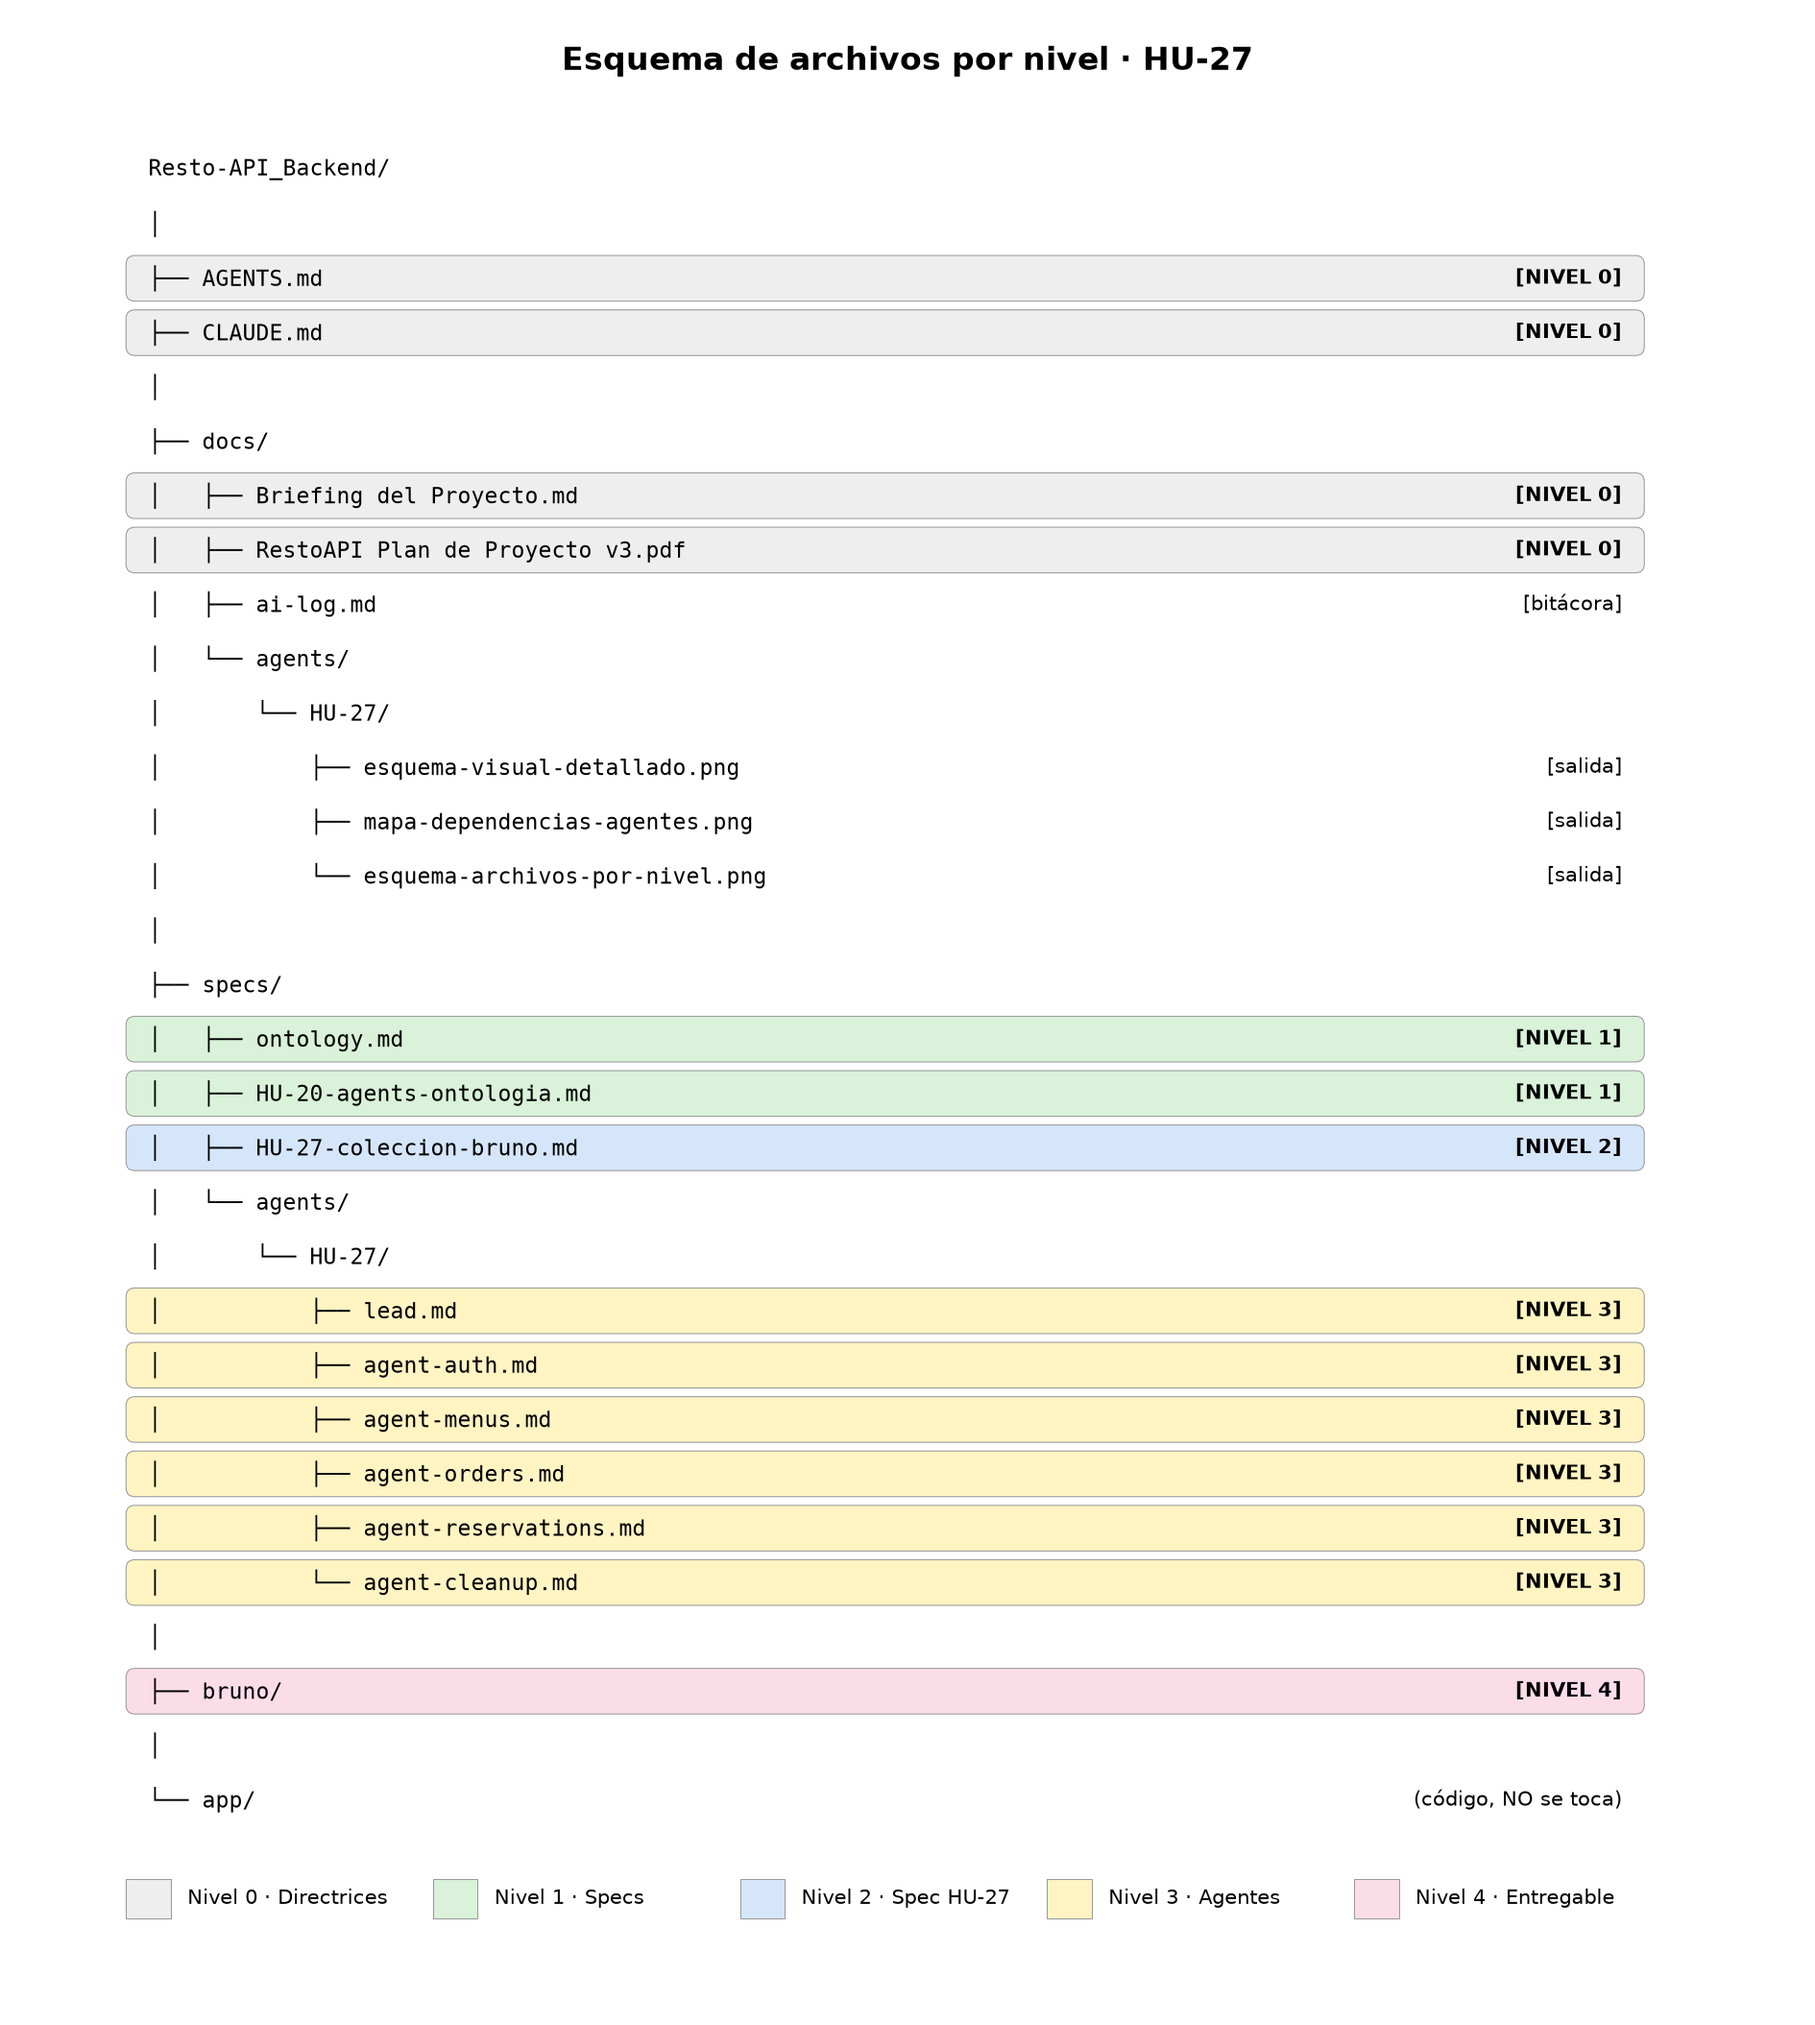
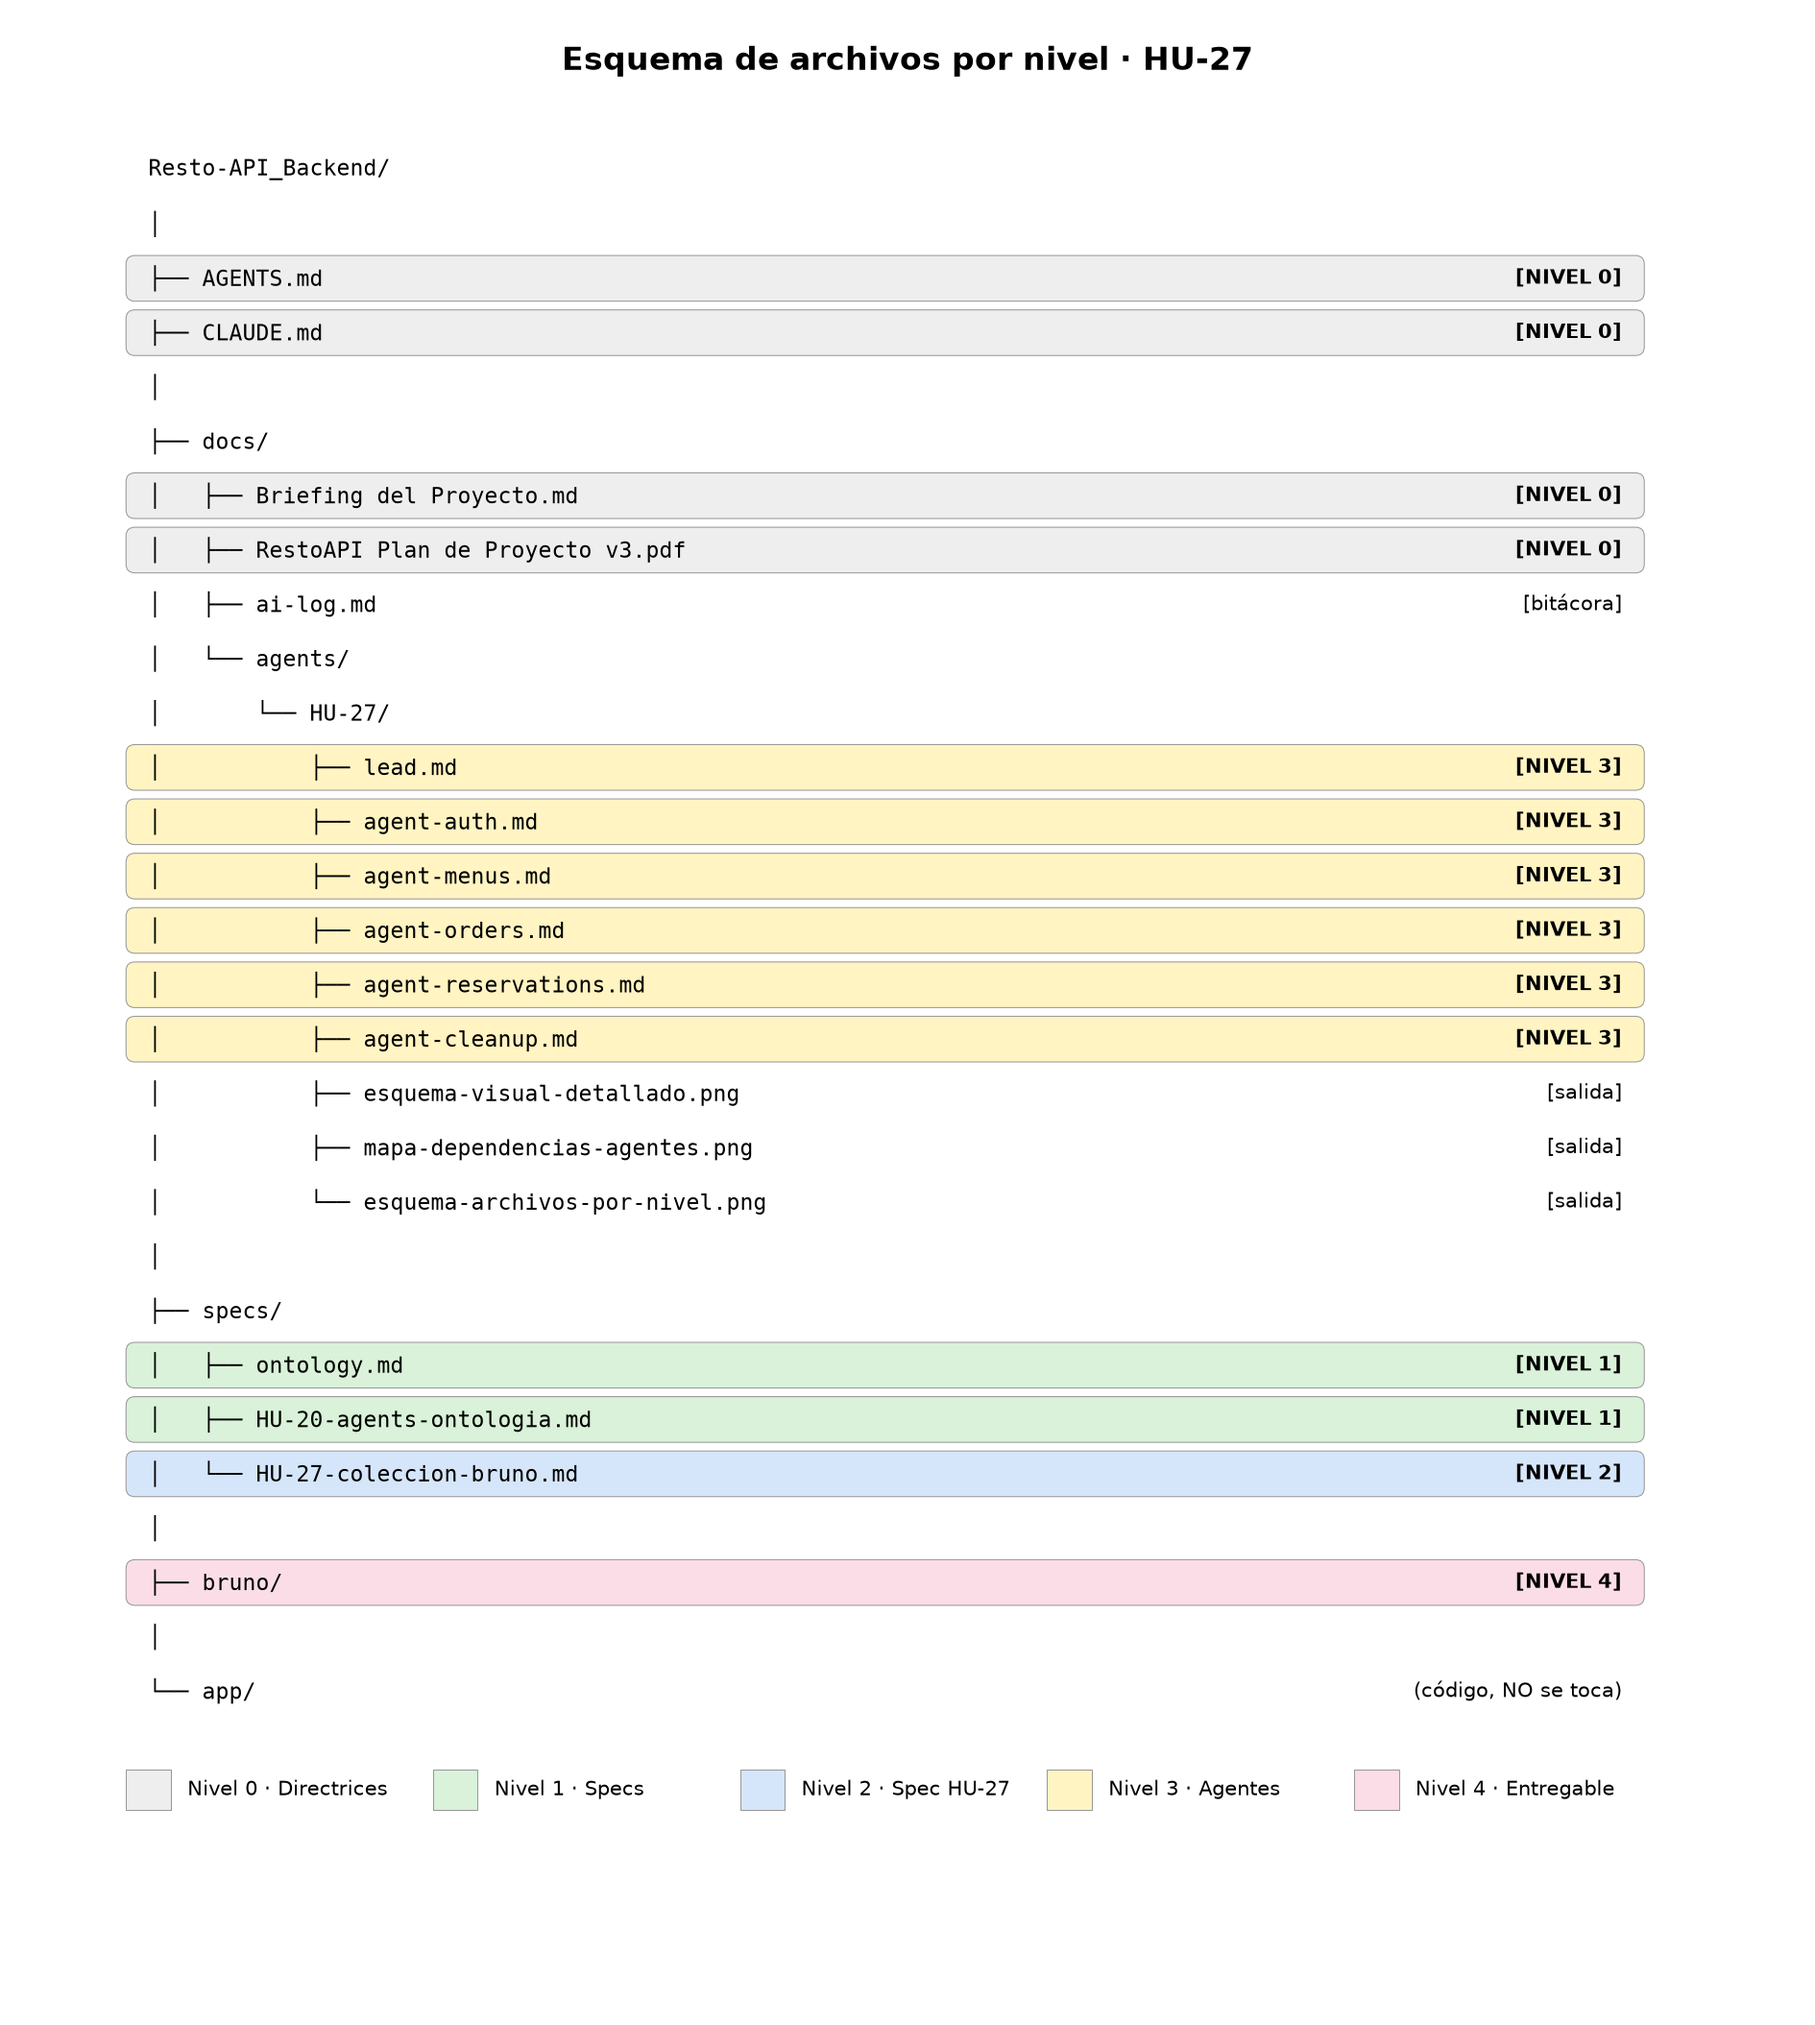
docs(agents): mover las directrices de HU-27 de specs/agents a docs/agents

diff --git a/scripts/generate_agent_diagrams.py b/scripts/generate_agent_diagrams.py
@@ -131,7 +131,7 @@ def diagram_1():
         arrow(ax, parent, spec)
 
     level(11.8, "NIVEL 3")
-    lead = box(ax, 8, 11.8, 5, 1.2, "specs/agents/HU-27/lead.md",
+    lead = box(ax, 8, 11.8, 5, 1.2, "docs/agents/HU-27/lead.md",
                "orquesta · no escribe .bru", YELLOW)
     arrow(ax, spec, lead)
 
@@ -210,6 +210,12 @@ TREE = [
     ("│   ├── ai-log.md", "bitácora"),
     ("│   └── agents/", None),
     ("│       └── HU-27/", None),
+    ("│           ├── lead.md", 3),
+    ("│           ├── agent-auth.md", 3),
+    ("│           ├── agent-menus.md", 3),
+    ("│           ├── agent-orders.md", 3),
+    ("│           ├── agent-reservations.md", 3),
+    ("│           ├── agent-cleanup.md", 3),
     ("│           ├── esquema-visual-detallado.png", "salida"),
     ("│           ├── mapa-dependencias-agentes.png", "salida"),
     ("│           └── esquema-archivos-por-nivel.png", "salida"),
@@ -217,15 +223,7 @@ TREE = [
     ("├── specs/", None),
     ("│   ├── ontology.md", 1),
     ("│   ├── HU-20-agents-ontologia.md", 1),
-    ("│   ├── HU-27-coleccion-bruno.md", 2),
-    ("│   └── agents/", None),
-    ("│       └── HU-27/", None),
-    ("│           ├── lead.md", 3),
-    ("│           ├── agent-auth.md", 3),
-    ("│           ├── agent-menus.md", 3),
-    ("│           ├── agent-orders.md", 3),
-    ("│           ├── agent-reservations.md", 3),
-    ("│           └── agent-cleanup.md", 3),
+    ("│   └── HU-27-coleccion-bruno.md", 2),
     ("│", None),
     ("├── bruno/", 4),
     ("│", None),

diff --git a/specs/HU-27-coleccion-bruno.md b/specs/HU-27-coleccion-bruno.md
@@ -53,7 +53,7 @@ bien delimitadas.
 
 1. Se habilita el flag experimental de agent teams en Claude Code.
 2. Se invoca al agente líder con la instrucción de crear el equipo.
-3. El líder lee `specs/agents/HU-27/lead.md` y reparte las tareas según los
+3. El líder lee `docs/agents/HU-27/lead.md` y reparte las tareas según los
    archivos `agent-*.md`.
 4. Los agentes especialistas trabajan **en paralelo**, cada uno en su
    carpeta de dominio dentro de `bruno/`, sin solapamiento de archivos.
@@ -63,12 +63,12 @@ bien delimitadas.
 
 | Agente | Archivo de directriz | Tarea única | Archivos que posee |
 |---|---|---|---|
-| **Lead** | `specs/agents/HU-27/lead.md` | Orquestar, verificar, consolidar, abrir PR | Ninguno (solo lectura + coordinación) |
-| **Auth & Users** | `specs/agents/HU-27/agent-auth.md` | Revisar/crear `.bru` de `01-auth/` y `02-users/` | `bruno/01-auth/`, `bruno/02-users/` |
-| **Menus & Tables** | `specs/agents/HU-27/agent-menus.md` | Revisar/crear `.bru` de `03-categories/`, `04-dishes/`, `05-tables/` | `bruno/03-categories/`, `bruno/04-dishes/`, `bruno/05-tables/` |
-| **Orders & Invoices** | `specs/agents/HU-27/agent-orders.md` | Revisar/crear `.bru` de `07-orders/` y `08-invoices/` | `bruno/07-orders/`, `bruno/08-invoices/` |
-| **Reservations** | `specs/agents/HU-27/agent-reservations.md` | Revisar/crear `.bru` de `06-reservations/` | `bruno/06-reservations/` |
-| **Stats, Export & Cleanup** | `specs/agents/HU-27/agent-cleanup.md` | Revisar/crear `.bru` de `09-stats/`, `10-exports/`, `11-cleanup/` | `bruno/09-stats/`, `bruno/10-exports/`, `bruno/11-cleanup/` |
+| **Lead** | `docs/agents/HU-27/lead.md` | Orquestar, verificar, consolidar, abrir PR | Ninguno (solo lectura + coordinación) |
+| **Auth & Users** | `docs/agents/HU-27/agent-auth.md` | Revisar/crear `.bru` de `01-auth/` y `02-users/` | `bruno/01-auth/`, `bruno/02-users/` |
+| **Menus & Tables** | `docs/agents/HU-27/agent-menus.md` | Revisar/crear `.bru` de `03-categories/`, `04-dishes/`, `05-tables/` | `bruno/03-categories/`, `bruno/04-dishes/`, `bruno/05-tables/` |
+| **Orders & Invoices** | `docs/agents/HU-27/agent-orders.md` | Revisar/crear `.bru` de `07-orders/` y `08-invoices/` | `bruno/07-orders/`, `bruno/08-invoices/` |
+| **Reservations** | `docs/agents/HU-27/agent-reservations.md` | Revisar/crear `.bru` de `06-reservations/` | `bruno/06-reservations/` |
+| **Stats, Export & Cleanup** | `docs/agents/HU-27/agent-cleanup.md` | Revisar/crear `.bru` de `09-stats/`, `10-exports/`, `11-cleanup/` | `bruno/09-stats/`, `bruno/10-exports/`, `bruno/11-cleanup/` |
 
 *Nota: El agente Lead no escribe archivos `.bru`; solo coordina, verifica y
 consolida. Los especialistas escriben únicamente en las carpetas que
@@ -78,7 +78,7 @@ poseen.*
 
 Cada agente especialista debe:
 1. Leer primero `AGENTS.md`, luego `specs/ontology.md`, luego su archivo
-   `specs/agents/HU-27/agent-*.md`.
+   `docs/agents/HU-27/agent-*.md`.
 2. Trabajar **únicamente** en las carpetas de `bruno/` que se le asignan.
 3. No tocar código de `app/`, `tests/`, migraciones, CI ni configuración de
    despliegue.
@@ -91,7 +91,7 @@ Cada agente especialista debe:
 ### Reglas para el agente líder
 
 El agente líder debe:
-1. Leer `specs/agents/HU-27/lead.md` antes de hacer nada.
+1. Leer `docs/agents/HU-27/lead.md` antes de hacer nada.
 2. Crear el equipo de agentes especialistas.
 3. Asignar tareas según la tabla de arriba.
 4. Verificar que cada especialista entrega lo pactado.
@@ -222,7 +222,7 @@ El agente líder debe:
 - [x] Ninguna credencial real ni token hardcodeado en el repo.
 - [ ] El diff de la PR contra `dev` solo muestra cambios dentro de `bruno/`,
       `docs/agents/HU-27/`, `scripts/generate_agent_diagrams.py`,
-      `specs/agents/HU-27/`, este fichero y la sección HU-27 de
+      `docs/agents/HU-27/`, este fichero y la sección HU-27 de
       `docs/ai-log.md`.
   > Excepción aprobada por Levi (PO) el 14/10/2026 para incluir
   > la documentación visual y las directrices de agentes de esta HU.
@@ -232,7 +232,7 @@ El agente líder debe:
   > `.dockerignore` excluye `bruno/` y `scripts/generate_agent_diagrams.py`
   > de la imagen Docker (solo añade dos líneas; no cambia el código que corre).
 - [ ] PR revisada por otra persona y aprobada por Levi (PO).
-- [ ] Los archivos `specs/agents/HU-27/*.md` existen y describen las tareas
+- [ ] Los archivos `docs/agents/HU-27/*.md` existen y describen las tareas
       de cada agente de forma clara y sin solapamiento.
 
 ## Out of Scope
@@ -268,8 +268,8 @@ El agente líder debe:
   - `docs/api.md` — documentación funcional de la API.
   - `docs/deploy.md` — despliegue y entornos (Local, Production).
   - Swagger: https://restoapi-47sp.onrender.com/docs
-  - `specs/agents/HU-27/lead.md` — directriz del agente líder.
-  - `specs/agents/HU-27/agent-*.md` — directrices de los agentes especialistas.
+  - `docs/agents/HU-27/lead.md` — directriz del agente líder.
+  - `docs/agents/HU-27/agent-*.md` — directrices de los agentes especialistas.
 - Alineado con `R-02` (no exponer `password_hash`), `R-03` (roles y creación
   de cuentas), `R-04` (desactivación lógica) y `R-05`/`R-06`/`R-07` (par de
   tokens) en la medida en que el código actual los implementa.

diff --git a/docs/agents/HU-27/README.md b/docs/agents/HU-27/README.md
@@ -2,12 +2,13 @@
 
 Documentación visual de cómo se organizó el equipo de agentes (Claude Code) que revisó la colección
 Bruno de HU-27 (issue #70). Spec de la HU: [`specs/HU-27-coleccion-bruno.md`](../../../specs/HU-27-coleccion-bruno.md).
-Directrices de los agentes: [`specs/agents/HU-27/`](../../../specs/agents/HU-27/).
+Directrices de los agentes: en esta misma carpeta ([`lead.md`](lead.md) y `agent-*.md`).
 
 ## Qué muestra cada PNG
 
 | Archivo | Contenido |
 |---|---|
+| [`lead.md`](lead.md) y `agent-*.md` | Directrices del agente líder y de los 5 especialistas. |
 | [`esquema-visual-detallado.png`](esquema-visual-detallado.png) | Jerarquía completa de archivos agénticos, del NIVEL 0 (`AGENTS.md`, briefing, plan v3, ontología) al NIVEL 4 (`bruno/`). Muestra cómo cada nivel alimenta al siguiente y cómo el líder (`lead.md`) reparte las carpetas entre los 5 especialistas. |
 | [`mapa-dependencias-agentes.png`](mapa-dependencias-agentes.png) | Dependencias entre agentes: `agent-auth` y `agent-menus` arrancan en paralelo; `agent-orders` y `agent-reservations` esperan a `agent-menus` (consumen `tableId`, `dishId`…); `agent-cleanup` espera a `agent-menus` y `agent-orders`. |
 | [`esquema-archivos-por-nivel.png`](esquema-archivos-por-nivel.png) | Árbol del repo con los archivos agénticos etiquetados por nivel (0 directrices · 1 specs generales · 2 spec de HU-27 · 3 directrices de agentes · 4 entregable). Incluye `docs/ai-log.md`, donde está la entrada de HU-27. |

diff --git a/docs/agents/HU-27/lead.md b/docs/agents/HU-27/lead.md
@@ -15,7 +15,7 @@ Tu trabajo es **orquestar, verificar y consolidar**. No escribes archivos
 1. Crea el equipo de agentes especialistas según la tabla de
    `specs/HU-27-coleccion-bruno.md`.
 2. Asigna a cada especialista la tarea definida en su archivo
-   `specs/agents/HU-27/agent-*.md`.
+   `docs/agents/HU-27/agent-*.md`.
 3. Verifica que cada especialista trabaja solo en las carpetas asignadas.
 4. Al terminar cada especialista, revisa su trabajo:
    - ¿Los `.bru` tienen `meta`, request, body, `script:post-response` y `tests`?
